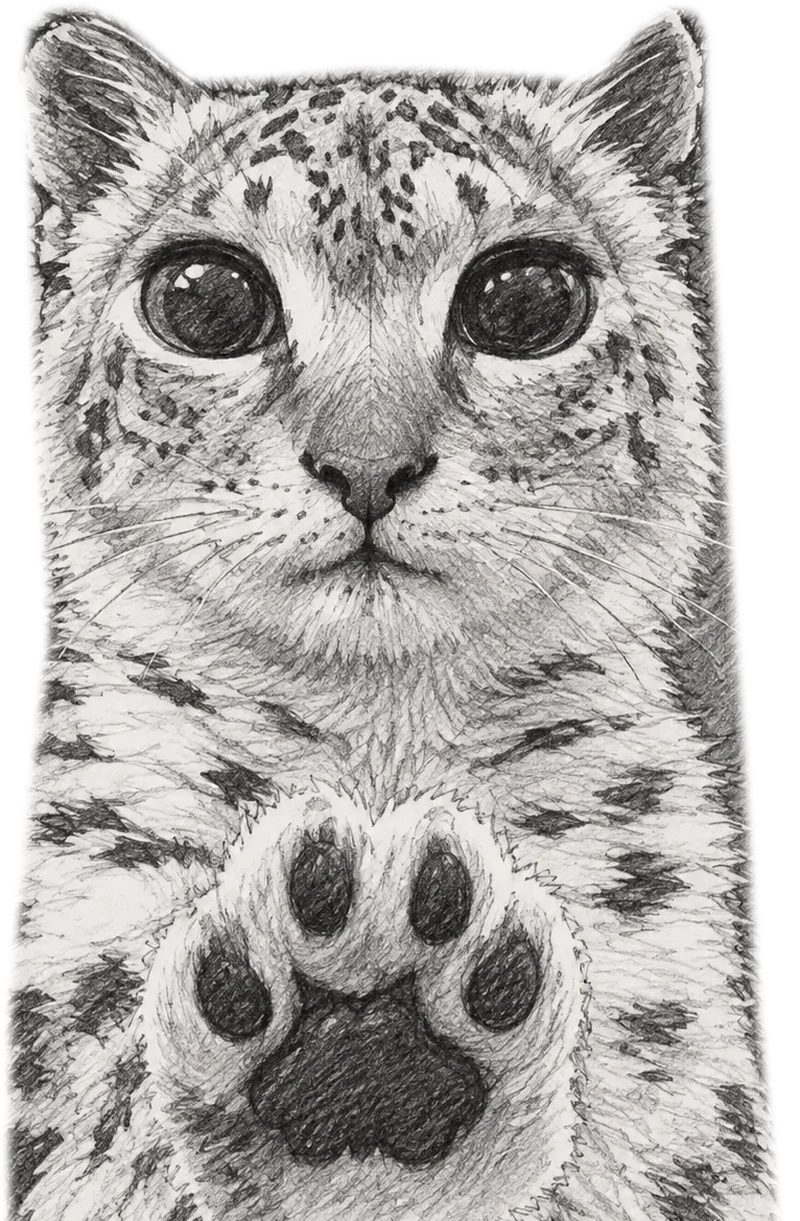
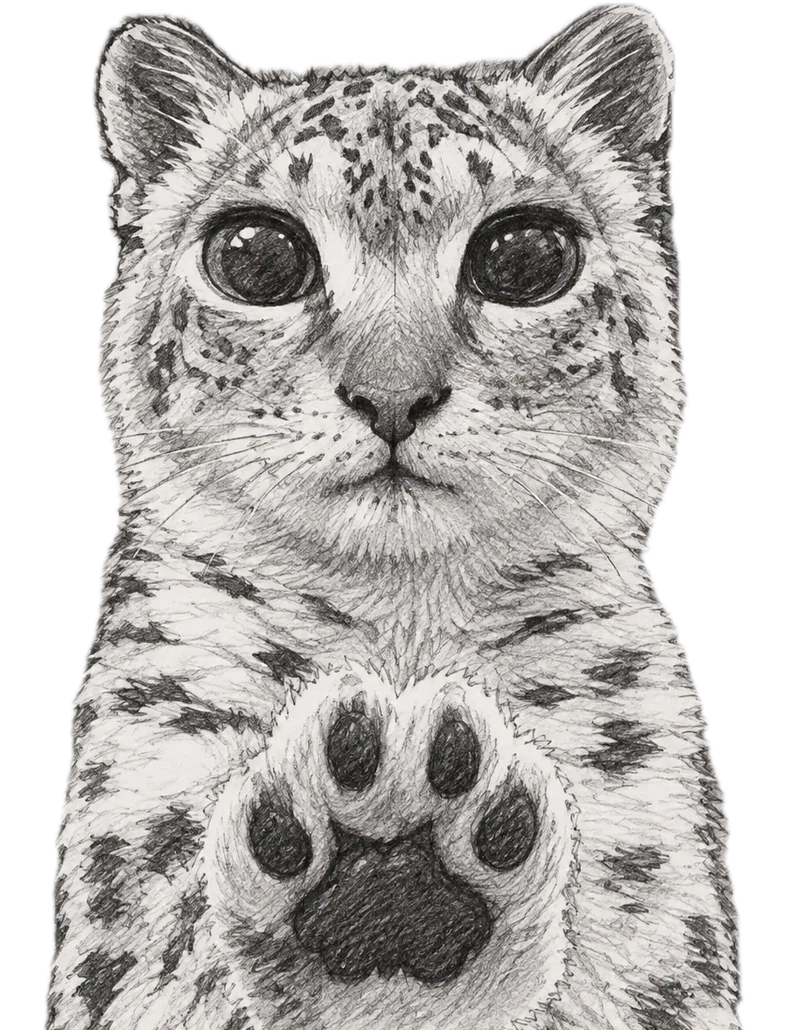
Easter egg: cut out the leopard drawing with Apple Vision subject lifting

diff --git a/assets/js/main.js b/assets/js/main.js
@@ -306,7 +306,7 @@
     function peek() {
       if (shown) return; shown = true;
       var box = document.createElement("div"); box.className = "leopard"; box.setAttribute("role", "status");
-      box.innerHTML = '<img src="assets/img/leopard-drawing.webp" srcset="assets/img/leopard-drawing.webp 400w, assets/img/leopard-drawing-800.webp 800w" sizes="220px" width="400" height="610" alt="Pencil drawing of a snow leopard with big round eyes raising its paw.">' +
+      box.innerHTML = '<img src="assets/img/leopard-drawing.webp" srcset="assets/img/leopard-drawing.webp 400w, assets/img/leopard-drawing-800.webp 800w" sizes="220px" width="400" height="515" alt="Pencil drawing of a snow leopard with big round eyes raising its paw.">' +
         '<p>Hi</p>';
       document.body.appendChild(box);
       requestAnimationFrame(function () { requestAnimationFrame(function () { box.classList.add("in"); }); });

diff --git a/tools/leopard-cutout.swift b/tools/leopard-cutout.swift
@@ -1,0 +1,16 @@
+import Foundation
+import Vision
+import CoreImage
+import AppKit
+let args = CommandLine.arguments
+let url = URL(fileURLWithPath: args[1]), out = URL(fileURLWithPath: args[2])
+let ci = CIImage(contentsOf: url)!
+let handler = VNImageRequestHandler(ciImage: ci)
+let req = VNGenerateForegroundInstanceMaskRequest()
+try handler.perform([req])
+guard let r = req.results?.first else { print("no subject"); exit(1) }
+let buf = try r.generateMaskedImage(ofInstances: r.allInstances, from: handler, croppedToInstancesExtent: false)
+let outCI = CIImage(cvPixelBuffer: buf)
+let ctx = CIContext()
+try ctx.writePNGRepresentation(of: outCI, to: out, format: .RGBA8, colorSpace: CGColorSpace(name: CGColorSpace.sRGB)!)
+print("ok instances:", r.allInstances.count)
